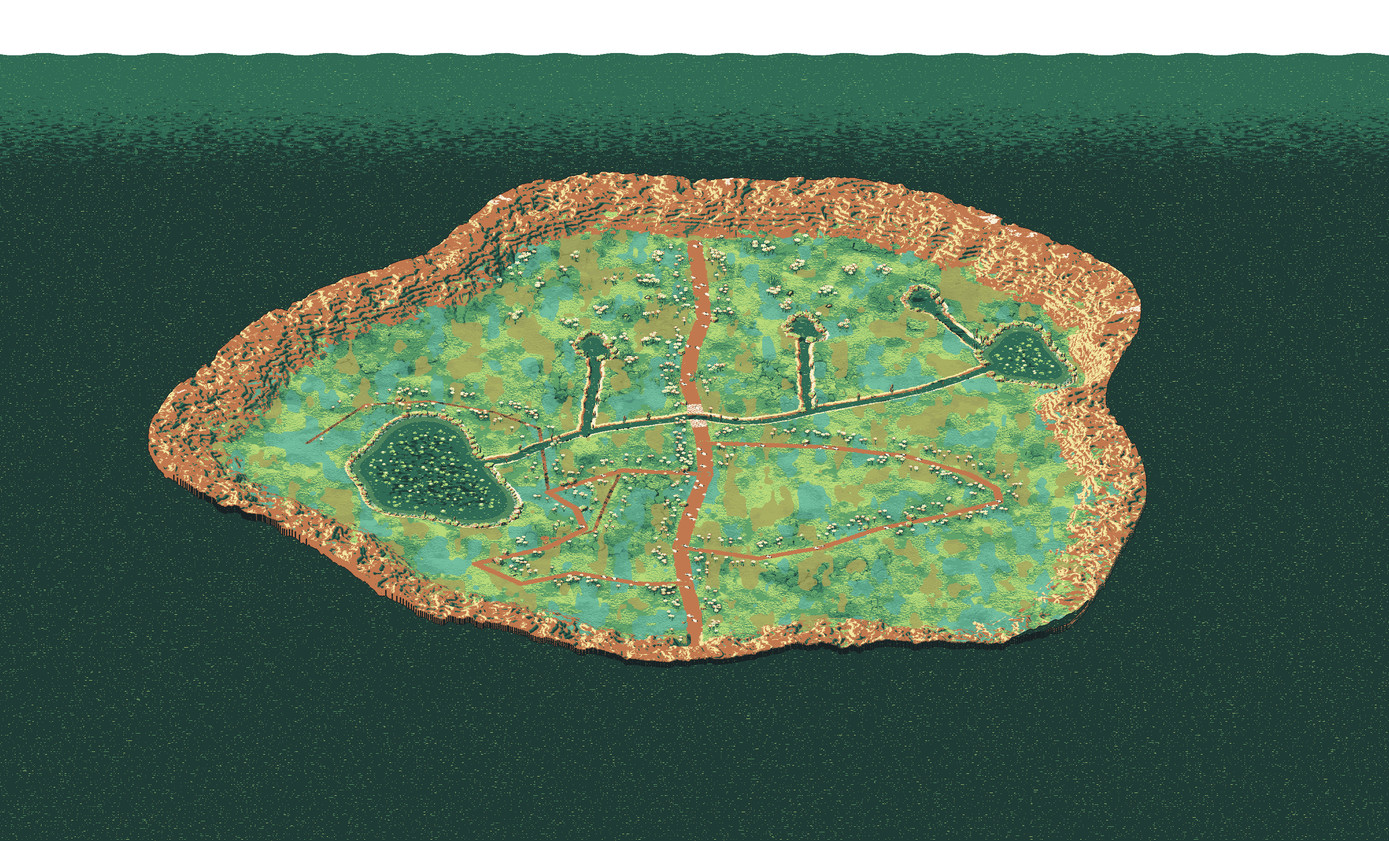
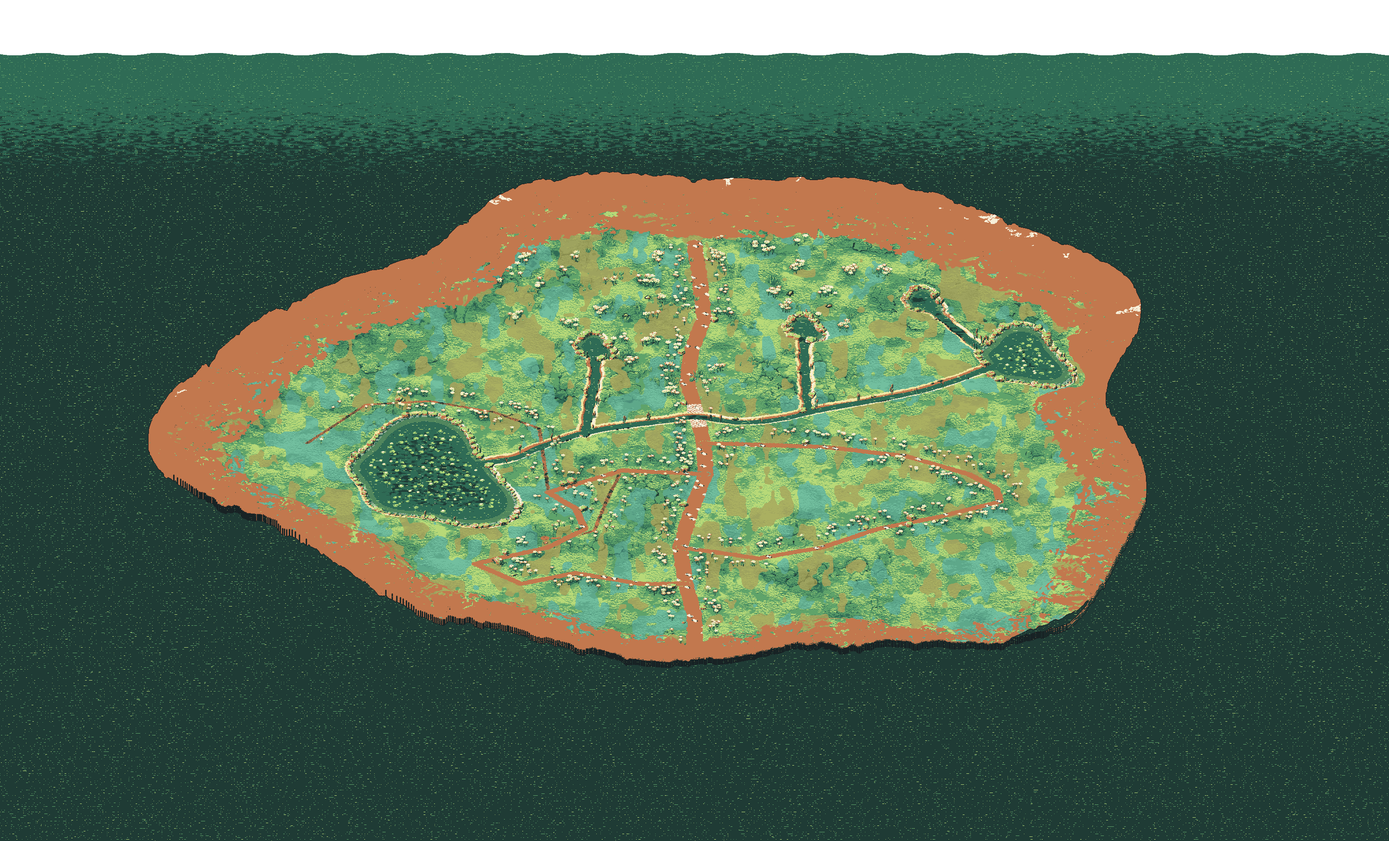
Calm the dirt cliff band: rock uses the earth role only (#579)
* Calm the dirt cliff band: rock uses the earth role only

Rock (the south rim and cliff faces) drops the yellow highlight streaks and the teal shadow pits. Its ramp is the earth role alone, and the relight picks the earth role's three light steps, so the shading still comes from light. Strata are thinner. The relight include is patched to match the generator.

Claude-Session: https://claude.ai/code/session_01Pmx9dTFzPRe6zkzjs2MKQs

* Drop two flowers that now stand on rust rock texels

The rock ramp no longer uses the light and teal steps, so two flower spots on the rim now sit on earth-coloured texels. Removing them keeps every Larkmoor flower on open grass (test_gardens).

Claude-Session: https://claude.ai/code/session_01Pmx9dTFzPRe6zkzjs2MKQs

---------

diff --git a/tools/art/gen_meadow3d.py b/tools/art/gen_meadow3d.py
@@ -803,7 +803,7 @@ diff = np.clip(nrm @ L, 0, 1)
 if GRASS == 'old': lt = .13 + .87 * diff + (tone - .5) * .26 * (mat == T_GRASS) + (n2 - .5) * .06
 else: lt = .13 + .87 * diff + (tone - .5) * .10 * (mat == T_GRASS) + (n2 - .5) * .06 * (mat != T_GRASS)    # grass detail comes from grass_tex.py
 strata = (np.floor(h / 3.1 + vn2(FU / 18, FV / 18, 5) * 2.5) % 2)
-lt -= .04 * strata * (mat == T_ROCK)
+lt -= .02 * strata * (mat == T_ROCK)
 lap = samp(LAP, FU, FV); lt -= np.clip(lap * .5, 0, .32); lt += np.clip(-lap * .25, 0, .12)
 lt -= .22 * ((dp > pw - 1.4) & (dp < pw + .2) & (mat == T_PATH)) * (n2 > .45)        # ruts / worn edge
 # defined edges: a dark rim on the grass just outside the path, and light pebbles scattered across the path surface
@@ -853,7 +853,8 @@ for c0 in range(0, len(u_), 1500000):
     shadow[sl_] = s_
 shadow[len(T['u']):len(T['u']) + len(Wd['u'])] = False
 log('shadows done')
-RAMP = {T_GRASS: [1, 2, 3, 3, 4], T_ROCK: [1, 2, 2, 6, 6, 6, 6, 6, 5], T_MOSS: [1, 2, 2, 3, 3], T_SAND: [6, 6, 5, 7], T_WET: [1, 6, 6, 5], T_PATH: [6, 6, 6, 6], T_FROST: [6, 5, 7, 7], T_EARTH: [1, 6, 6, 5],
+# rock is the earth role only: the relight picks its three light steps (calm dirt band)
+RAMP = {T_GRASS: [1, 2, 3, 3, 4], T_ROCK: [6, 6, 6, 6, 6, 6, 6, 6, 6], T_MOSS: [1, 2, 2, 3, 3], T_SAND: [6, 6, 5, 7], T_WET: [1, 6, 6, 5], T_PATH: [6, 6, 6, 6], T_FROST: [6, 5, 7, 7], T_EARTH: [1, 6, 6, 5],
         M_FOL: [1, 2, 3, 4], M_BARK: [1, 6, 6, 5], M_PINE: [1, 2, 2, 3], M_ROCK: [1, 2, 6, 5], M_MOSS: [2, 3, 4, 4], M_CRYS: [2, 3, 4, 7], M_WOOD: [1, 6, 5, 7],
         M_PETA: [3, 5, 5, 7], M_PETB: [2, 6, 6, 5], M_STEM: [1, 2, 3, 3], M_LILY: [1, 2, 3, 4], M_REED: [1, 2, 3, 3], M_CAT: [1, 6, 6, 5], M_BERRY: [1, 6, 6, 5],
         M_CAP: [1, 6, 6, 5], M_CSTEM: [6, 5, 7, 7], M_PAPER: [5, 7, 7, 7], M_GRASS: [2, 3, 3, 4], M_BARKT: [6, 5, 7, 7], M_BARKT2: [1, 6, 5, 7], M_INK: [0, 0, 1, 1], M_DARKF: DARKF_RAMP, M_PAPER + 20: [5, 7, 7, 7]}

diff --git a/tools/art/gen_larkmoor.py b/tools/art/gen_larkmoor.py
@@ -1114,7 +1114,7 @@ diff = np.clip(nrm @ L, 0, 1)
 if GRASS == 'old': lt = .13 + .87 * diff + (tone - .5) * .26 * (mat == T_GRASS) + (n2 - .5) * .06
 else: lt = .13 + .87 * diff + (tone - .5) * .10 * (mat == T_GRASS) + (n2 - .5) * .06 * (mat != T_GRASS)    # grass detail comes from grass_tex.py
 strata = (np.floor(h / 3.1 + vn2(FU / 18, FV / 18, 5) * 2.5) % 2)
-lt -= .07 * strata * (mat == T_ROCK)
+lt -= .02 * strata * (mat == T_ROCK)     # calm dirt cliff band: rock is the earth role, shaded by the relight steps
 lap = samp(LAP, FU, FV); lt -= np.clip(lap * .5, 0, .32); lt += np.clip(-lap * .25, 0, .12)
 # worn path, one material: a soft tone shift that follows the noise, with no dark rim on the grass and no pebble speckle
 # (those read as a hard edging band). The trodden ground and the turf meet through the ragged edge above.
@@ -1218,7 +1218,7 @@ for c0 in range(0, len(u_), 1500000):
     shadow[sl_] = s_
 shadow[len(T['u']):len(T['u']) + len(Wd['u'])] = False
 log('shadows done')
-RAMP = {T_GRASS: [1, 2, 3, 3, 4], T_ROCK: [1, 2, 6, 6, 5], T_SAND: [6, 6, 5, 7], T_WET: [1, 6, 6, 5], T_PATH: [6, 6, 5, 6], T_TRAIL: [6, 6, 6, 1], T_FROST: [6, 5, 7, 7], T_EARTH: [1, 6, 6, 6],
+RAMP = {T_GRASS: [1, 2, 3, 3, 4], T_ROCK: [6, 6, 6, 6, 6], T_SAND: [6, 6, 5, 7], T_WET: [1, 6, 6, 5], T_PATH: [6, 6, 5, 6], T_TRAIL: [6, 6, 6, 1], T_FROST: [6, 5, 7, 7], T_EARTH: [1, 6, 6, 6],
         M_FOL: [1, 2, 3, 4], M_BARK: [1, 6, 6, 5], M_PINE: [1, 2, 2, 3], M_ROCK: [1, 6, 6, 7], M_MOSS: [2, 3, 4, 4], M_CRYS: [2, 3, 4, 7], M_WOOD: [1, 6, 5, 7],
         M_PETA: [3, 5, 5, 7], M_PETB: [2, 6, 6, 5], M_STEM: [1, 2, 3, 3], M_LILY: [1, 2, 3, 4], M_REED: [1, 2, 3, 3], M_CAT: [1, 6, 6, 5], M_BERRY: [1, 6, 6, 5],
         M_CAP: [1, 6, 6, 5], M_CSTEM: [6, 5, 7, 7], M_PAPER: [5, 7, 7, 7], M_GRASS: [2, 3, 3, 4], M_BARKT: [6, 5, 7, 7], M_BARKT2: [1, 6, 5, 7], M_INK: [0, 0, 1, 1], M_PAPER + 20: [5, 7, 7, 7], M_DARKF: DARKF_RAMP}

diff --git a/docs/decisions/art.md b/docs/decisions/art.md
@@ -530,6 +530,14 @@ Nathan picked mockup A (mounds) from the three styles in `plinky/pad-stage-mocku
 - **Not verified in-engine:** how a stop after a backward flick feels on the PC.
 - **2026-11-25 Larkmoor water layout B (T6):** three feeder brooks from the river and the mere into three small ponds in clearings (`FEEDERS` and `PONDS` in `tools/art/larkmoor_layout.py`). The river carve now runs per channel, and each texel takes the height of its nearest channel. No brook crosses a path, so no new bridge. The third pond moved to the pine clearing south-west of the mere, clear of the mountain rim. Bank stones are left to the Restyle trees thread (`BANK_ROCKS`). Why: Nathan picked B on the decision card. Checked in the cloud: the generator runs, the walkable fraction is 0.192 (was 0.197, the new water), and the suite passes. Not verified on the PC. Sprites churn because prop placement follows the random order, so most sprite files change.
 
+## 2026-11-25: Calm dirt cliff band (rock is the earth role)
+- **Brief (Nathan, option A of three mockups on the real Larkmoor start frame):** the rust rim at the bottom of Larkmoor was the loudest, most textured area and pulled the eye from the walker. Keep the earth read and the Bayer texture, and drop the yellow streaks and the near-black pits.
+- **Cause:** the rock ramp (`T_ROCK`) used the light role 5 for its top step (the yellow streaks), and the shadow role 1 (dark teal) for its bottom step (the pits). The relight in `render/shaders/prop_ramps.gdshaderinc` read the same ramp.
+- **Change:** rock is the earth role (6) only. In `gen_meadow3d.py` and `gen_larkmoor.py` the ramp is `[6, 6, 6, 6, 6]` (meadow: nine entries), and strata drop from .04/.07 to .02. The relight picks the earth role's three light steps (`prop_ramp_steps`), so the shading still comes from light. Palette stays at 8 anchors.
+- **Generated include:** `prop_ramps.gdshaderinc` material 101 is `25, 25, 26, 26, 26, 26, 27, 27, 27`, which is what `gen_meadow3d.py` produces from the new ramp. It was patched by hand because re-running `gen_meadow3d.py` rewrites the meadow tools output.
+- **Scope:** every rock texel on the meadow and Larkmoor maps, not only the south rim. Mountains and cliff faces get the same earth shading.
+- **Checked:** in-engine with the cloud's software Vulkan render, `golden_shots.tscn` at noon and dusk, before and after. The baked ground was regenerated and the bake reproduced the committed ground before the change.
+- **Lesson:** a ramp that drops the highlight step gives a flat sheet in the bake. Shading must come from the relight steps of the same role, not from an extra ramp colour.
 ## 2026-11-25: Field flowers drop the ink outline for a shadow-side rim (Nathan picked C)
 - **Change:** `GardenArt._outline` (world/garden_art.gd) now paints a one-texel rim only on the shadow side of a field flower (empty cells below or right of the plant), in the zone's deep leaf green `FLOWER_RIM` (#225a4a). The lit upper-left edge gets no rim. Small flowers and shrubs were never inked and are unchanged.
 - **Why:** the black ring made each Sprout daisy read as a sticker on a 4 to 6 texel sprite. A rim in the ground's own hue reads as a cast shadow and keeps the petals bright. Gower rule 3: value edges, not ink, on nature.

diff --git a/changelog.d/calm-cliff-band.patch.md b/changelog.d/calm-cliff-band.patch.md
@@ -1,0 +1,1 @@
+The south dirt cliff band in Larkmoor and the meadow rock no longer carry yellow highlight streaks or teal pits. Rock now uses the earth colour alone, shaded by light, so the band reads as one calm rim behind the walker.
